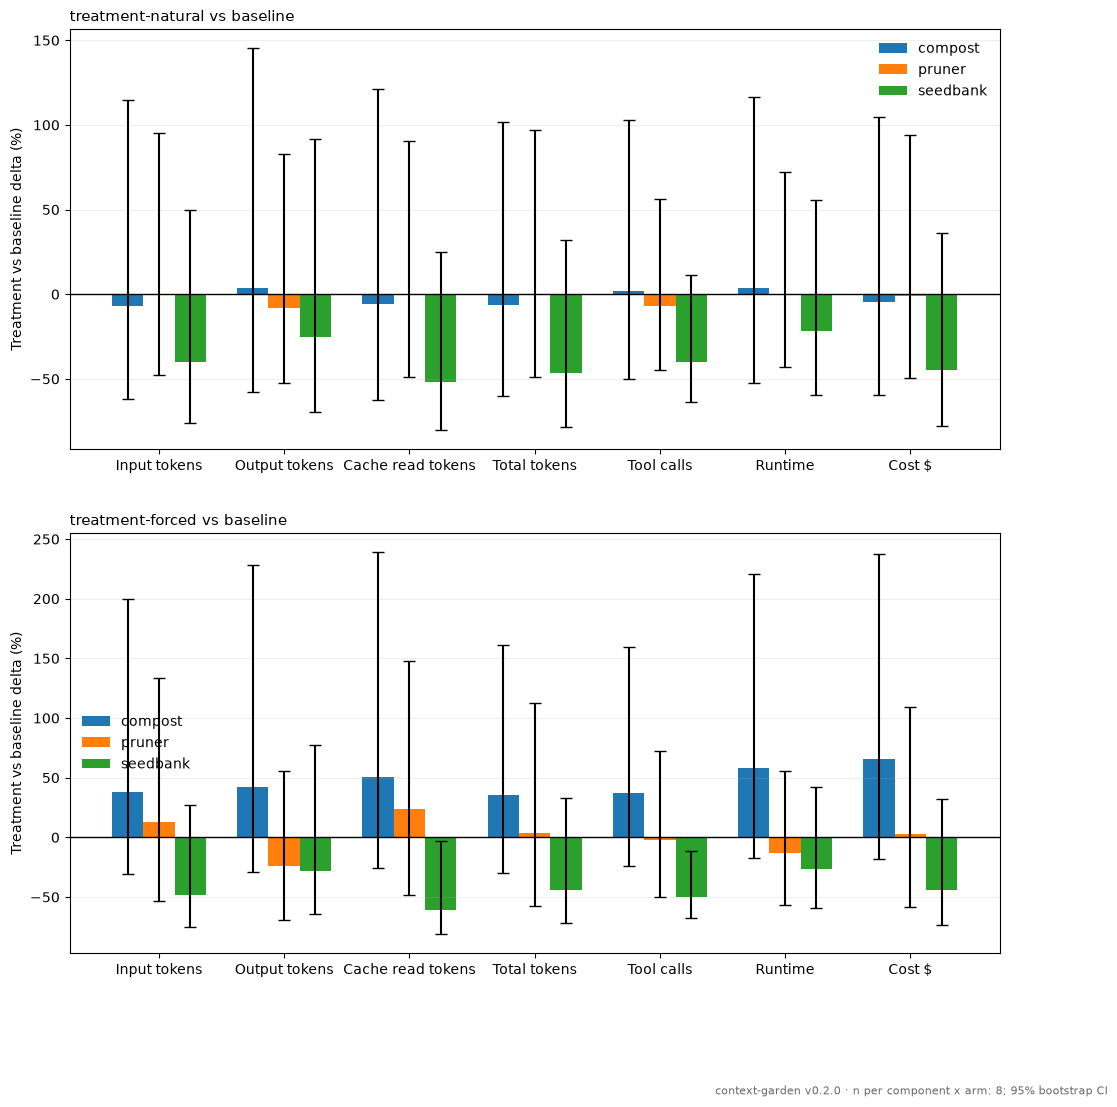
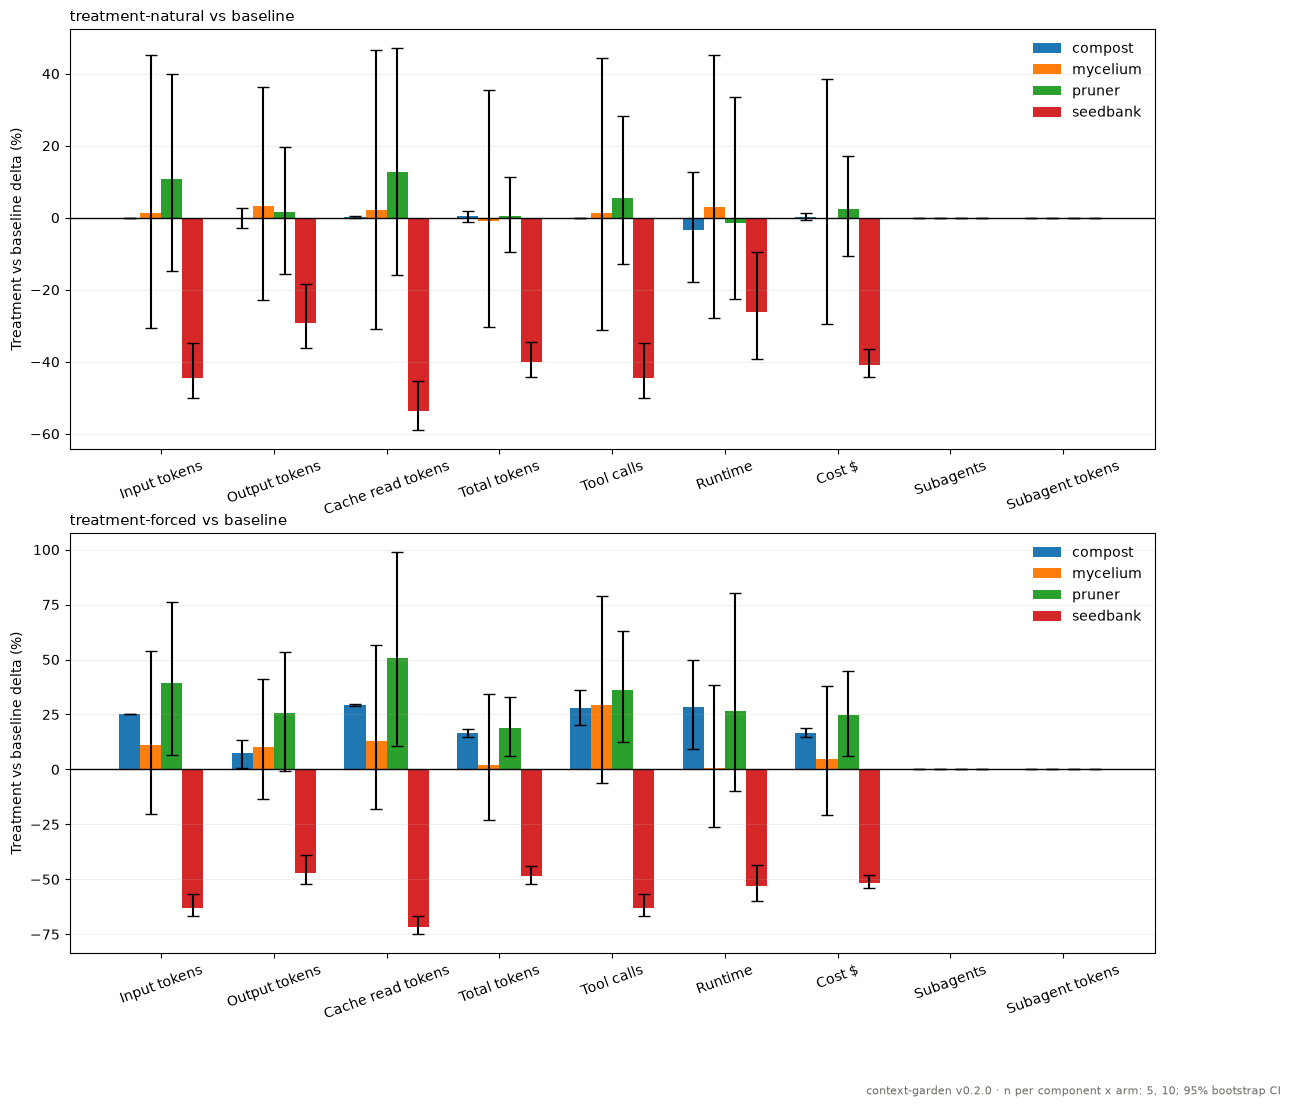
New benchmark & added mycelium benchmark

diff --git a/benchmarks/harness/runners.py b/benchmarks/harness/runners.py
@@ -126,6 +126,7 @@ def _skill_tokens_from_transcript(transcript: Path, workdir: Path) -> tuple[int,
     skills_root = (workdir / ".claude" / "skills").resolve()
     tool_use_is_skill: dict[str, bool] = {}
     invoked: list[str] = []
+    skill_call: dict[str, str] = {}
     seen_message_ids: set[str] = set()
     pending_skill_result = False
     total = 0
@@ -148,8 +149,8 @@ def _skill_tokens_from_transcript(transcript: Path, workdir: Path) -> tuple[int,
                         if isinstance(block, dict) and block.get("type") == "tool_use":
                             tool_id = block.get("id")
                             name = _invoked_skill_name(block, skills_root)
-                            if name is not None and name not in invoked:
-                                invoked.append(name)
+                            if name is not None and tool_id is not None:
+                                skill_call[tool_id] = name
                             path = _tool_use_path(block)
                             if tool_id is not None and (name is not None or path is not None):
                                 tool_use_is_skill[tool_id] = name is not None or _is_under(
@@ -167,7 +168,11 @@ def _skill_tokens_from_transcript(transcript: Path, workdir: Path) -> tuple[int,
                     for block in content:
                         if isinstance(block, dict) and block.get("type") == "tool_result":
                             tool_id = block.get("tool_use_id")
-                            if tool_use_is_skill.get(tool_id):
+                            # a denied/failed Skill call loaded nothing: not invoked
+                            name = skill_call.get(tool_id)
+                            if name and not block.get("is_error") and name not in invoked:
+                                invoked.append(name)
+                            if tool_use_is_skill.get(tool_id) and not block.get("is_error"):
                                 pending_skill_result = True
     except OSError:
         return 0, []
@@ -208,11 +213,11 @@ class ClaudeCodeRunner:
         max_budget_usd: float = 1.0,
         timeout_seconds: float = 900.0,
         claude_bin: str = "claude",
-        allowed_tools: tuple[str, ...] = ("Bash",),
+        allowed_tools: tuple[str, ...] = ("Bash", "Skill"),
     ) -> None:
         self.model = model
-        # acceptEdits alone auto-denies Bash in headless runs, so allow it
-        # explicitly (safe: each run is in a throwaway temp worktree).
+        # acceptEdits alone auto-denies Bash and Skill in headless runs, so
+        # allow them explicitly (safe: each run is in a throwaway temp worktree).
         self.allowed_tools = allowed_tools
         self.permission_mode = permission_mode
         self.max_budget_usd = max_budget_usd

diff --git a/benchmarks/harness/plot.py b/benchmarks/harness/plot.py
@@ -15,6 +15,7 @@ import json
 from pathlib import Path
 from typing import Any
 
+from .analyze import _is_infra_error
 from .types import ARMS
 
 METRICS = {
@@ -25,6 +26,9 @@ METRICS = {
     "tool_calls": "Tool calls",
     "runtime": "Runtime",
     "cost_usd": "Cost $",
+    # Delegation (mycelium): None where the baseline spawned no agents.
+    "subagent_count": "Subagents",
+    "subagent_tokens": "Subagent tokens",
 }
 BOOTSTRAP_SAMPLES = 10_000
 BOOTSTRAP_SEED = 42
@@ -95,7 +99,7 @@ def plot_records(
     components = sorted({r["component"] for r in records})
 
     x, w = np.arange(len(METRICS)), 0.75 / len(components)
-    fig, axes = plt.subplots(len(arms), 1, figsize=(12, 6 * len(arms)), squeeze=False)
+    fig, axes = plt.subplots(len(arms), 1, figsize=(14, 6 * len(arms)), squeeze=False)
     for ax, arm in zip(axes[:, 0], arms):
         deltas = bootstrap_deltas(records, arm, components)
         for i, component in enumerate(components):
@@ -111,6 +115,7 @@ def plot_records(
             xticks=x, xticklabels=list(METRICS.values()),
             ylabel="Treatment vs baseline delta (%)",
         )  # fmt: skip
+        ax.tick_params(axis="x", labelrotation=20)
         if len(arms) > 1:
             ax.set_title(f"{arm} vs baseline", loc="left", fontsize=11)
         ax.legend(frameon=False)
@@ -136,4 +141,5 @@ def plot_results_dir(
     results_dir = Path(results_dir)
     lines = (results_dir / "records.jsonl").read_text(encoding="utf-8").splitlines()
     records = [json.loads(line) for line in lines if line.strip()]
+    records = [r for r in records if not _is_infra_error(r)]  # same exclusion as the summary
     return plot_records(records, results_dir / out_name, version)

diff --git a/tests/benchmarks/test_analyze.py b/tests/benchmarks/test_analyze.py
@@ -154,3 +154,39 @@ def test_skill_tool_invocation_counts_tokens_and_names(tmp_path):
     tokens, invoked = runners._skill_tokens_from_transcript(transcript, tmp_path)
     assert tokens == 700
     assert invoked == ["pruner"]
+
+
+def test_denied_skill_call_is_not_counted_as_invoked(tmp_path):
+    lines = [
+        {
+            "type": "assistant",
+            "message": {
+                "id": "m1",
+                "content": [
+                    {"type": "tool_use", "id": "t1", "name": "Skill",
+                     "input": {"skill": "mycelium"}},  # fmt: skip
+                ],
+                "usage": {"cache_creation_input_tokens": 5},
+            },
+        },
+        {
+            "type": "user",
+            "message": {
+                "content": [
+                    {"type": "tool_result", "tool_use_id": "t1", "is_error": True,
+                     "content": "Permission for this tool use was denied."}
+                ]
+            },
+        },  # fmt: skip
+        {
+            "type": "assistant",
+            "message": {"id": "m2", "content": [], "usage": {"cache_creation_input_tokens": 700}},
+        },
+    ]
+    transcript = tmp_path / "t.jsonl"
+    transcript.write_text("\n".join(json.dumps(line) for line in lines))
+    assert runners._skill_tokens_from_transcript(transcript, tmp_path) == (0, [])
+
+
+def test_runner_allows_bash_and_skill_by_default():
+    assert {"Bash", "Skill"} <= set(runners.ClaudeCodeRunner().allowed_tools)

diff --git a/tests/benchmarks/test_run.py b/tests/benchmarks/test_run.py
@@ -149,3 +149,25 @@ def test_plot_writes_png(tmp_path):
     (tmp_path / "records.jsonl").write_text("".join(json.dumps(r) + "\n" for r in rows))
     out = plot_results_dir(tmp_path, version="0.2.0")
     assert out.exists() and out.stat().st_size > 0
+
+
+def test_plot_deltas_cover_mycelium_subagents_and_skip_infra_errors():
+    pytest.importorskip("numpy")
+    from harness.analyze import _is_infra_error
+    from harness.plot import METRICS, bootstrap_deltas
+
+    def row(arm, agents, infra=""):
+        return BenchmarkRecord(
+            task_id="mycelium-overlapping-investigation", component="mycelium", level="repo",
+            condition=arm, model="m", success=True, verification_success=True,
+            verification_notes="", input_tokens=10, output_tokens=10, subagent_count=agents,
+            subagent_tokens=1000 * agents, infra_error=infra,
+        ).to_dict()  # fmt: skip
+
+    rows = [row("baseline", 4)] * 3 + [row("treatment-forced", 2)] * 3
+    rows += [row("treatment-forced", 0, infra="rate limit")]  # would drag the mean down
+    kept = [r for r in rows if not _is_infra_error(r)]
+    deltas = bootstrap_deltas(kept, "treatment-forced", ["mycelium"])["mycelium"]
+    assert "subagent_count" in METRICS and "subagent_tokens" in METRICS
+    assert deltas["subagent_count"][0] == pytest.approx(-50.0)
+    assert deltas["subagent_tokens"][0] == pytest.approx(-50.0)

diff --git a/tests/benchmarks/test_harness.py b/tests/benchmarks/test_harness.py
@@ -266,6 +266,17 @@ class TestMycelium:
 
         assert _run(self.overlap, "treatment-natural", answer, tmp_path).verification_success
 
+    def test_wrong_or_missing_answers_fail(self, tmp_path):
+        def wrong(prompt: str, workdir: Path) -> AgentRunResult:
+            (workdir / "ANSWERS.txt").write_text(
+                "COMPOST_KEEP: 20\nCOMPOST_MB: 200\nSEEDBANK_LOCK: fcntl.flock\n"
+                "SEEDBANK_WINDOWS: no-op\nPRUNER_WRITE: os.rename\nVERSION: 0.2.0\n"
+            )
+            return AgentRunResult(success=True)
+
+        assert not _run(self.overlap, "baseline", wrong, tmp_path).verification_success
+        assert not _run(self.overlap, "baseline", _do_nothing, tmp_path).verification_success
+
     def test_answers_are_true_of_the_repo(self):
         # the fixture's expected values must track the code they describe
         co = (REPO_ROOT / "skills/compost/scripts/co_store.py").read_text()

diff --git a/docs/benchmarks/v0.2.0/summary.md b/docs/benchmarks/v0.2.0/summary.md
@@ -1,49 +1,63 @@
-> **INVALID RUN.** Headless Bash was auto-denied (no skill CLI ever executed) and 22/72 trials were zero-token infra failures counted as FAILs. See `docs/benchmarks/README.md`.
-
 # Benchmark summary
 
-72 record(s); schedule seed(s): 0. Intervals are 95% CIs (pass rate: Wilson; pass-rate delta: Newcombe; means and mean deltas: t / Welch t).
+75 record(s) (0 infra-error trial(s) excluded); schedule seed(s): 0. Intervals are 95% CIs (pass rate: Wilson; pass-rate delta: Newcombe; means and mean deltas: t / Welch t).
 
 ## Primary: verified pass rate
 
 | task | arm | n | pass | pass rate [95% CI] | Δ vs baseline [95% CI] | skill invoked |
 |---|---|---:|---:|---:|---:|---:|
-| compost-noisy-failure-cluster | baseline | 8 | 5/8 | 62% [31%, 86%] | — | 0/8 |
-| compost-noisy-failure-cluster | treatment-natural | 8 | 5/8 | 62% [31%, 86%] | +0% [-40%, 40%] | 0/8 |
-| compost-noisy-failure-cluster | treatment-forced | 8 | 6/8 | 75% [41%, 93%] | +12% [-29%, 49%] | 6/8 |
-| pruner-file-tokenusage-bug | baseline | 8 | 6/8 | 75% [41%, 93%] | — | 0/8 |
-| pruner-file-tokenusage-bug | treatment-natural | 8 | 6/8 | 75% [41%, 93%] | +0% [-38%, 38%] | 0/8 |
-| pruner-file-tokenusage-bug | treatment-forced | 8 | 5/8 | 62% [31%, 86%] | -12% [-49%, 29%] | 5/8 |
-| seedbank-recurring-facts | baseline | 8 | 5/8 | 62% [31%, 86%] | — | 0/8 |
-| seedbank-recurring-facts | treatment-natural | 8 | 5/8 | 62% [31%, 86%] | +0% [-40%, 40%] | 0/8 |
-| seedbank-recurring-facts | treatment-forced | 8 | 6/8 | 75% [41%, 93%] | +12% [-29%, 49%] | 0/8 |
+| compost-noisy-failure-cluster | baseline | 5 | 5/5 | 100% [57%, 100%] | — | 0/5 |
+| compost-noisy-failure-cluster | treatment-natural | 5 | 5/5 | 100% [57%, 100%] | +0% [-43%, 43%] | 0/5 |
+| compost-noisy-failure-cluster | treatment-forced | 5 | 5/5 | 100% [57%, 100%] | +0% [-43%, 43%] | 5/5 |
+| mycelium-notes-reuse | baseline | 5 | 5/5 | 100% [57%, 100%] | — | 0/5 |
+| mycelium-notes-reuse | treatment-natural | 5 | 5/5 | 100% [57%, 100%] | +0% [-43%, 43%] | 0/5 |
+| mycelium-notes-reuse | treatment-forced | 5 | 5/5 | 100% [57%, 100%] | +0% [-43%, 43%] | 5/5 |
+| mycelium-overlapping-investigation | baseline | 5 | 5/5 | 100% [57%, 100%] | — | 0/5 |
+| mycelium-overlapping-investigation | treatment-natural | 5 | 5/5 | 100% [57%, 100%] | +0% [-43%, 43%] | 0/5 |
+| mycelium-overlapping-investigation | treatment-forced | 5 | 5/5 | 100% [57%, 100%] | +0% [-43%, 43%] | 5/5 |
+| pruner-file-tokenusage-bug | baseline | 5 | 5/5 | 100% [57%, 100%] | — | 0/5 |
+| pruner-file-tokenusage-bug | treatment-natural | 5 | 5/5 | 100% [57%, 100%] | +0% [-43%, 43%] | 0/5 |
+| pruner-file-tokenusage-bug | treatment-forced | 5 | 5/5 | 100% [57%, 100%] | +0% [-43%, 43%] | 5/5 |
+| seedbank-recurring-facts | baseline | 5 | 5/5 | 100% [57%, 100%] | — | 0/5 |
+| seedbank-recurring-facts | treatment-natural | 5 | 5/5 | 100% [57%, 100%] | +0% [-43%, 43%] | 0/5 |
+| seedbank-recurring-facts | treatment-forced | 5 | 5/5 | 100% [57%, 100%] | +0% [-43%, 43%] | 0/5 |
 
 ## Secondary: tokens and cost
 
 | task | arm | tokens mean [95% CI] | Δ tokens vs baseline [95% CI] | Δ % | cost $ mean [95% CI] | tokens, skill invoked | tokens, not invoked |
 |---|---|---:|---:|---:|---:|---:|---:|
-| compost-noisy-failure-cluster | baseline | 7036 [3142, 10930] | — | — | 0.081 [0.034, 0.128] | — (n=0) | 7036 [3142, 10930] (n=8) |
-| compost-noisy-failure-cluster | treatment-natural | 6586 [2023, 11150] | -450 [-5904, 5004] | -6.4% [-83.9%, 71.1%] | 0.077 [0.024, 0.131] | — (n=0) | 6586 [2023, 11150] (n=8) |
-| compost-noisy-failure-cluster | treatment-forced | 9548 [4587, 14508] | +2512 [-3238, 8261] | +35.7% [-46.0%, 117.4%] | 0.134 [0.059, 0.209] | 12730 [11876, 13584] (n=6) | 0 [0, 0] (n=2) |
-| pruner-file-tokenusage-bug | baseline | 7463 [3599, 11327] | — | — | 0.084 [0.041, 0.128] | — (n=0) | 7463 [3599, 11327] (n=8) |
-| pruner-file-tokenusage-bug | treatment-natural | 7454 [3603, 11306] | -8 [-4957, 4940] | -0.1% [-66.4%, 66.2%] | 0.083 [0.040, 0.126] | — (n=0) | 7454 [3603, 11306] (n=8) |
-| pruner-file-tokenusage-bug | treatment-forced | 7740 [2381, 13100] | +277 [-5772, 6326] | +3.7% [-77.3%, 84.8%] | 0.087 [0.027, 0.146] | 12385 [12280, 12489] (n=5) | 0 [0, 0] (n=3) |
-| seedbank-recurring-facts | baseline | 9318 [2782, 15853] | — | — | 0.095 [0.028, 0.161] | — (n=0) | 9318 [2782, 15853] (n=8) |
-| seedbank-recurring-facts | treatment-natural | 5007 [1538, 8477] | -4310 [-11226, 2605] | -46.3% [-120.5%, 28.0%] | 0.052 [0.016, 0.088] | — (n=0) | 5007 [1538, 8477] (n=8) |
-| seedbank-recurring-facts | treatment-forced | 5231 [2526, 7937] | -4086 [-10818, 2645] | -43.9% [-116.1%, 28.4%] | 0.053 [0.025, 0.080] | — (n=0) | 5231 [2526, 7937] (n=8) |
+| compost-noisy-failure-cluster | baseline | 9400 [9215, 9586] | — | — | 0.102 [0.100, 0.103] | — (n=0) | 9400 [9215, 9586] (n=5) |
+| compost-noisy-failure-cluster | treatment-natural | 9437 [9314, 9560] | +36 [-154, 226] | +0.4% [-1.6%, 2.4%] | 0.102 [0.101, 0.103] | — (n=0) | 9437 [9314, 9560] (n=5) |
+| compost-noisy-failure-cluster | treatment-forced | 10952 [10762, 11143] | +1552 [1331, 1773] | +16.5% [14.2%, 18.9%] | 0.119 [0.116, 0.122] | 10952 [10762, 11143] (n=5) | — (n=0) |
+| mycelium-notes-reuse | baseline | 22893 [20769, 25016] | — | — | 0.249 [0.228, 0.270] | — (n=0) | 22893 [20769, 25016] (n=5) |
+| mycelium-notes-reuse | treatment-natural | 24608 [22170, 27045] | +1715 [-980, 4411] | +7.5% [-4.3%, 19.3%] | 0.270 [0.243, 0.297] | — (n=0) | 24608 [22170, 27045] (n=5) |
+| mycelium-notes-reuse | treatment-forced | 23546 [23120, 23971] | +653 [-1462, 2768] | +2.9% [-6.4%, 12.1%] | 0.262 [0.253, 0.270] | 23546 [23120, 23971] (n=5) | — (n=0) |
+| mycelium-overlapping-investigation | baseline | 12255 [10480, 14030] | — | — | 0.132 [0.116, 0.149] | — (n=0) | 12255 [10480, 14030] (n=5) |
+| mycelium-overlapping-investigation | treatment-natural | 10203 [8909, 11498] | -2052 [-3909, -195] | -16.7% [-31.9%, -1.6%] | 0.111 [0.098, 0.125] | — (n=0) | 10203 [8909, 11498] (n=5) |
+| mycelium-overlapping-investigation | treatment-forced | 12299 [11767, 12831] | +43 [-1712, 1799] | +0.4% [-14.0%, 14.7%] | 0.137 [0.128, 0.146] | 12299 [11767, 12831] (n=5) | — (n=0) |
+| pruner-file-tokenusage-bug | baseline | 10106 [8961, 11250] | — | — | 0.115 [0.099, 0.132] | — (n=0) | 10106 [8961, 11250] (n=5) |
+| pruner-file-tokenusage-bug | treatment-natural | 10146 [8924, 11367] | +40 [-1351, 1432] | +0.4% [-13.4%, 14.2%] | 0.118 [0.099, 0.137] | — (n=0) | 10146 [8924, 11367] (n=5) |
+| pruner-file-tokenusage-bug | treatment-forced | 12010 [10295, 13725] | +1904 [146, 3662] | +18.8% [1.4%, 36.2%] | 0.144 [0.115, 0.173] | 12010 [10295, 13725] (n=5) | — (n=0) |
+| seedbank-recurring-facts | baseline | 13315 [11644, 14985] | — | — | 0.140 [0.126, 0.155] | — (n=0) | 13315 [11644, 14985] (n=5) |
+| seedbank-recurring-facts | treatment-natural | 7982 [7799, 8164] | -5333 [-7002, -3664] | -40.1% [-52.6%, -27.5%] | 0.083 [0.082, 0.085] | — (n=0) | 7982 [7799, 8164] (n=5) |
+| seedbank-recurring-facts | treatment-forced | 6867 [6839, 6895] | -6448 [-8118, -4777] | -48.4% [-61.0%, -35.9%] | 0.068 [0.068, 0.069] | — (n=0) | 6867 [6839, 6895] (n=5) |
 
 ## Routing: does the agent pick the skill up unprompted?
 
 | task | arm | natural invocation rate [95% CI] |
 |---|---|---:|
-| compost-noisy-failure-cluster | treatment-natural | 0% [0%, 32%] (0/8) |
-| pruner-file-tokenusage-bug | treatment-natural | 0% [0%, 32%] (0/8) |
-| seedbank-recurring-facts | treatment-natural | 0% [0%, 32%] (0/8) |
+| compost-noisy-failure-cluster | treatment-natural | 0% [0%, 43%] (0/5) |
+| mycelium-notes-reuse | treatment-natural | 0% [0%, 43%] (0/5) |
+| mycelium-overlapping-investigation | treatment-natural | 0% [0%, 43%] (0/5) |
+| pruner-file-tokenusage-bug | treatment-natural | 0% [0%, 43%] (0/5) |
+| seedbank-recurring-facts | treatment-natural | 0% [0%, 43%] (0/5) |
 
 ## Benefit: treatment-forced vs baseline
 
 | task | Δ pass rate [95% CI] | Δ tokens [95% CI] | Δ % | forced invocation rate |
 |---|---:|---:|---:|---:|
-| compost-noisy-failure-cluster | +12% [-29%, 49%] | +2512 [-3238, 8261] | +35.7% [-46.0%, 117.4%] | 75% [41%, 93%] |
-| pruner-file-tokenusage-bug | -12% [-49%, 29%] | +277 [-5772, 6326] | +3.7% [-77.3%, 84.8%] | 62% [31%, 86%] |
-| seedbank-recurring-facts | +12% [-29%, 49%] | -4086 [-10818, 2645] | -43.9% [-116.1%, 28.4%] | 0% [0%, 32%] |
+| compost-noisy-failure-cluster | +0% [-43%, 43%] | +1552 [1331, 1773] | +16.5% [14.2%, 18.9%] | 100% [57%, 100%] |
+| mycelium-notes-reuse | +0% [-43%, 43%] | +653 [-1462, 2768] | +2.9% [-6.4%, 12.1%] | 100% [57%, 100%] |
+| mycelium-overlapping-investigation | +0% [-43%, 43%] | +43 [-1712, 1799] | +0.4% [-14.0%, 14.7%] | 100% [57%, 100%] |
+| pruner-file-tokenusage-bug | +0% [-43%, 43%] | +1904 [146, 3662] | +18.8% [1.4%, 36.2%] | 100% [57%, 100%] |
+| seedbank-recurring-facts | +0% [-43%, 43%] | -6448 [-8118, -4777] | -48.4% [-61.0%, -35.9%] | 0% [0%, 43%] |

diff --git a/README.md b/README.md
@@ -11,8 +11,9 @@ Self-contained Agent Skills that cut an agent's context usage — deterministic,
 | 🌾 [`weeder`](skills/weeder) | Shrinks a Skill's always-loaded token cost without losing instructions. |
 
 <!-- benchmark-figure:begin -->
-No valid published benchmark yet: the v0.2.0 run is invalid (headless Bash was
-auto-denied, so no skill CLI ever ran); see [`docs/benchmarks/`](docs/benchmarks).
+Benchmark results for **v0.2.0** on the small fixtures in this repo, run with Claude Code ([summary](docs/benchmarks/v0.2.0/summary.md); older versions in [`docs/benchmarks/`](docs/benchmarks)):
+
+![Benchmark results for context-garden v0.2.0](docs/benchmarks/v0.2.0/benchmark.png)
 <!-- benchmark-figure:end -->
 
 ## Install
